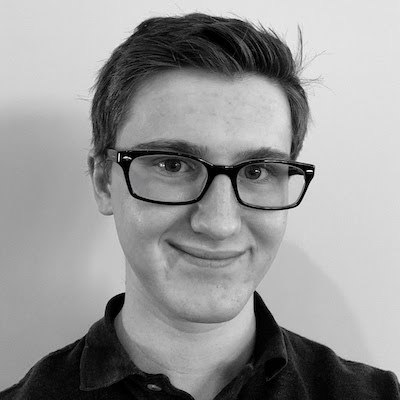
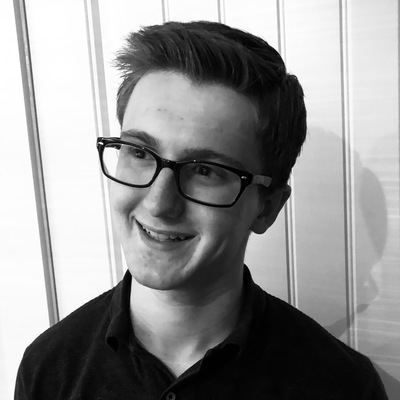
update profile pictures

diff --git a/src/sections/ClubLeaders.html b/src/sections/ClubLeaders.html
@@ -146,12 +146,12 @@
     {
       name: 'Vishal Shah',
       description: 'Grand conductor of production',
-      image: '',
+      image: '/images/Vishal-profile.jpg',
       type: 'Lead',
     },
     {
       name: 'Ben Holmes',
-      description: 'Whimsical website developer ✨',
+      description: 'All-knowing web sorceror 🔮',
       image: '/images/BenH-profile.jpg',
       type: 'Lead',
     },
